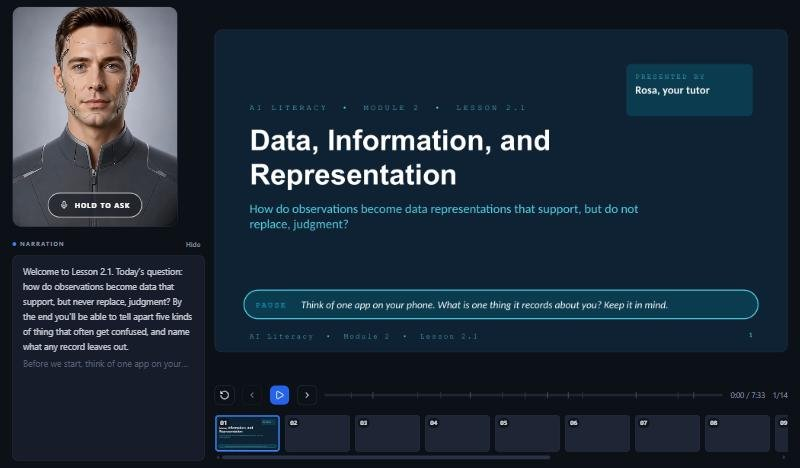
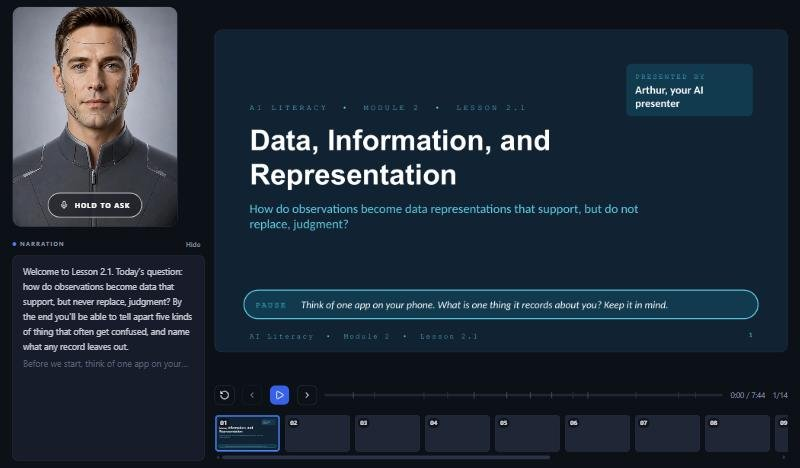
Reading 2.1: new Arthur watch link, refreshed thumbnail and runtime

diff --git a/Module 2/reading-2.1-data-information-and-representation.html b/Module 2/reading-2.1-data-information-and-representation.html
@@ -172,19 +172,19 @@
   </header>
 
   <section class="presenter" aria-label="Companion presentation by Arthur">
-    <a class="thumb" href="https://live.arthur.digital/watch/padxg429uzm9u2ax" target="_blank" rel="noopener noreferrer" aria-label="Watch Arthur present Lesson 2.1 (opens in a new tab)">
+    <a class="thumb" href="https://live.arthur.digital/watch/dk4gtmh8ep6de9gc" target="_blank" rel="noopener noreferrer" aria-label="Watch Arthur present Lesson 2.1 (opens in a new tab)">
       <img src="assets/presenter-2.1.jpg" width="800" height="468" alt="The Arthur presenter beside the Lesson 2.1 title slide, Data, Information, and Representation">
       <span class="play" aria-hidden="true"><svg viewBox="0 0 24 24" width="30" height="30" fill="currentColor"><path d="M8 5.5v13l11-6.5z"/></svg></span>
-      <span class="len" aria-hidden="true">7:33</span>
+      <span class="len" aria-hidden="true">7:44</span>
     </a>
     <div class="info">
       <span class="k">Companion presentation · Optional</span>
       <h2>Prefer to hear it first? Let Arthur walk you through it.</h2>
       <p>Arthur, the course AI presenter, talks through this lesson in about eight minutes with 14 slides. Hold the microphone button while it plays to ask him a question. Then come back here for the reading and the activities.</p>
       <ul class="chips" aria-label="Details">
-        <li>7 min 33 s</li><li>14 slides</li><li>Ask questions as it plays</li><li>Opens in a new tab</li>
+        <li>7 min 44 s</li><li>14 slides</li><li>Ask questions as it plays</li><li>Opens in a new tab</li>
       </ul>
-      <a class="watch" href="https://live.arthur.digital/watch/padxg429uzm9u2ax" target="_blank" rel="noopener noreferrer">Watch the presentation ↗</a>
+      <a class="watch" href="https://live.arthur.digital/watch/dk4gtmh8ep6de9gc" target="_blank" rel="noopener noreferrer">Watch the presentation ↗</a>
     </div>
   </section>
 
